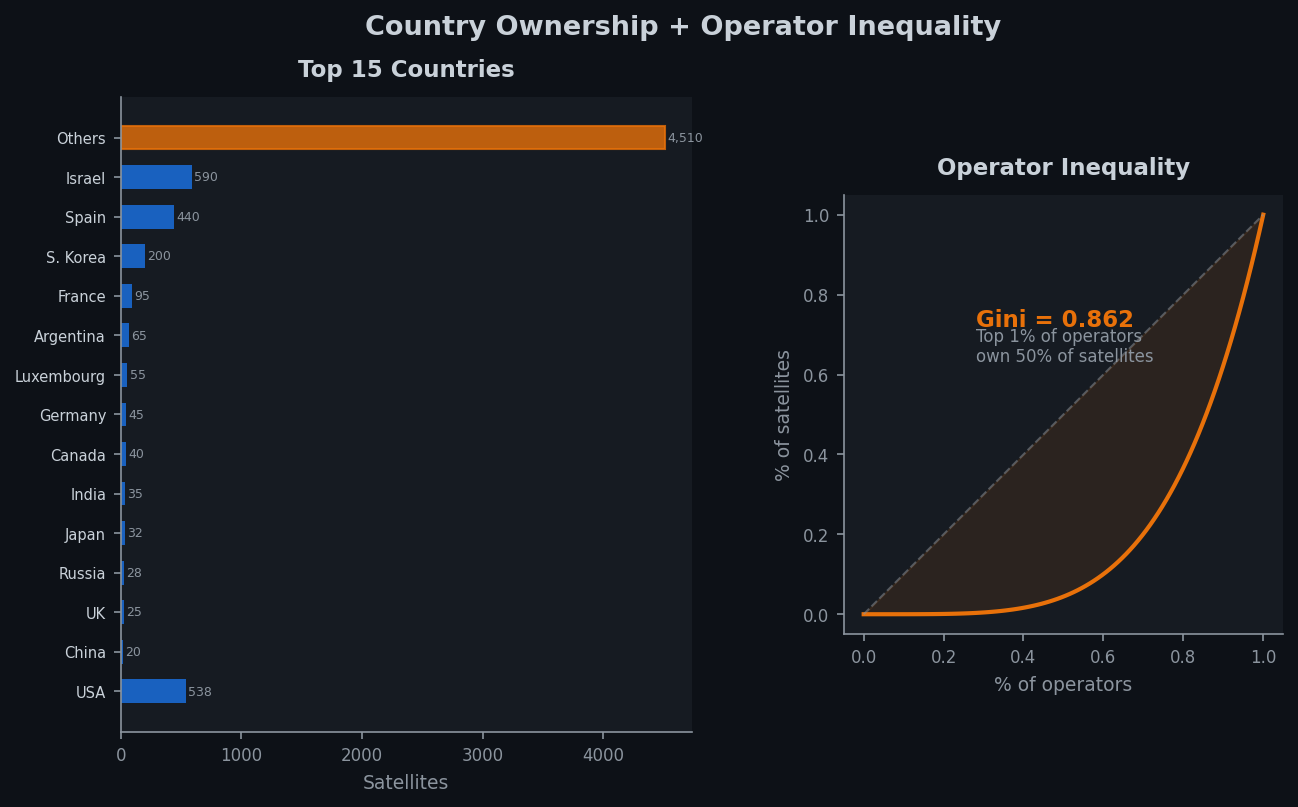
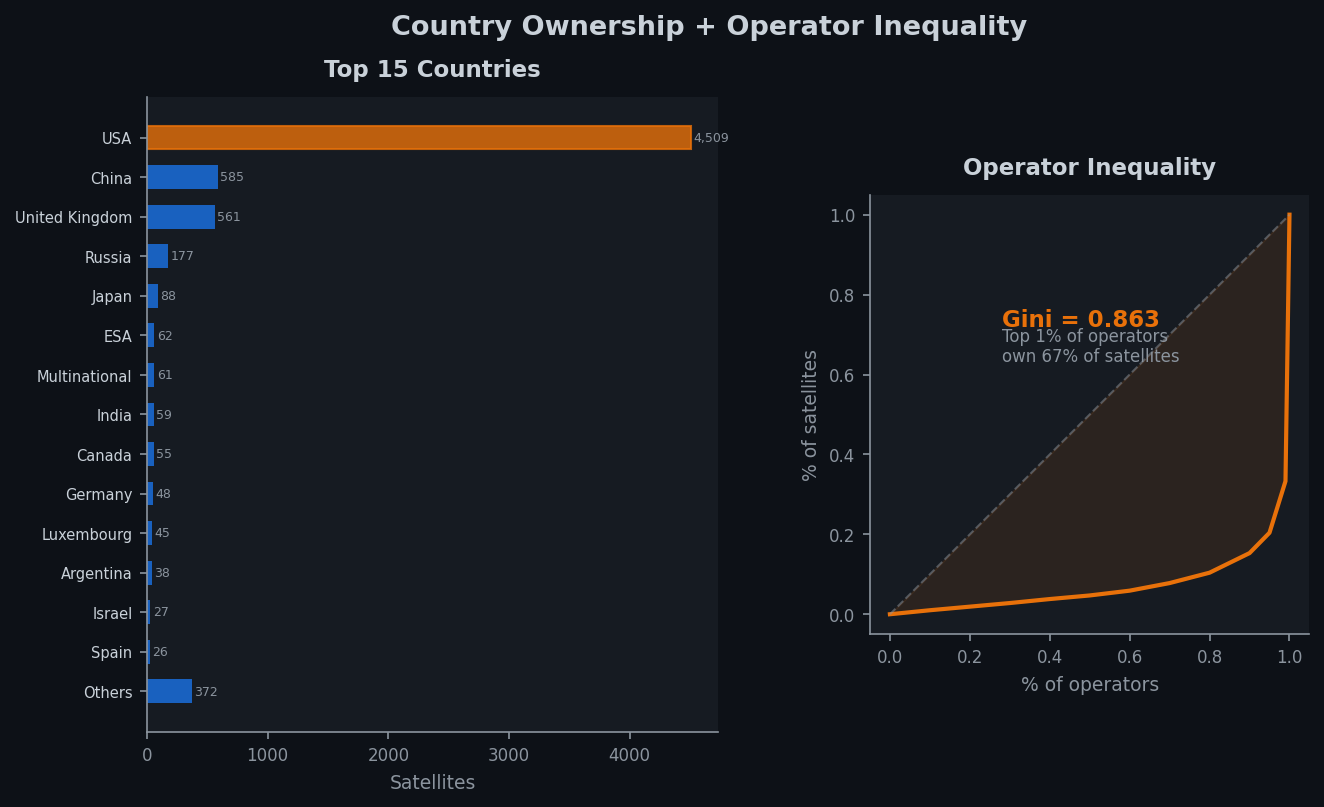
fix(wireframes): read country/Lorenz/Gini values from satellites.json

diff --git a/milestones/milestone2/wireframes.py b/milestones/milestone2/wireframes.py
@@ -79,12 +79,13 @@ ax_text.text(0.1, 0.95, "SCROLL NARRATIVE", color=MUTED, fontsize=7,
 ax_chart = fig.add_subplot(gs[1])
 setup_ax(ax_chart, "Cumulative Operational Satellites")
 
+peak = SAT_DATA["summary"]["total_satellites"]
 x = np.arange(1974, 2023)
 y = np.concatenate([
     np.linspace(20, 200, 15),
     np.linspace(200, 800, 15),
     np.linspace(800, 1200, 9),
-    np.linspace(1200, 6700, 10),
+    np.linspace(1200, peak, 10),
 ])
 ax_chart.fill_between(x, y, color=ACCENT, alpha=0.2)
 ax_chart.plot(x, y, color=ACCENT, linewidth=2)
@@ -114,15 +115,16 @@ gs = fig.add_gridspec(1, 2, width_ratios=[1.3, 1], wspace=0.3)
 ax1 = fig.add_subplot(gs[0])
 setup_ax(ax1, "Top 15 Countries")
 
-countries = ["USA", "China", "UK", "Russia", "Japan", "India", "Canada",
-             "Germany", "Luxembourg", "Argentina", "France", "S. Korea",
-             "Spain", "Israel", "Others"]
-counts = [4510, 590, 440, 200, 95, 65, 55, 45, 40, 35, 32, 28, 25, 20, 538]
+# Top 14 countries from the data + an "Others" bucket for everything else.
+top14 = SAT_DATA["top_countries"][:14]
+countries = [c["country"] for c in top14] + ["Others"]
+others_count = SAT_DATA["summary"]["total_satellites"] - sum(c["count"] for c in top14)
+counts = [c["count"] for c in top14] + [others_count]
 
 bars = ax1.barh(range(len(countries)), counts, color=ACCENT, alpha=0.8, height=0.6)
 bars[0].set_color(ACCENT2)
 ax1.set_yticks(range(len(countries)))
-ax1.set_yticklabels(countries[::-1], color=TEXT, fontsize=7)
+ax1.set_yticklabels(countries, color=TEXT, fontsize=7)
 ax1.invert_yaxis()
 ax1.set_xlabel("Satellites", color=MUTED, fontsize=9)
 
@@ -134,8 +136,10 @@ for bar, val in zip(bars, counts):
 ax2 = fig.add_subplot(gs[1])
 setup_ax(ax2, "Operator Inequality")
 
-x_lorenz = np.linspace(0, 1, 100)
-y_lorenz = x_lorenz ** 4.5
+# Real Lorenz curve from the data instead of a synthetic power curve.
+lorenz = SAT_DATA["lorenz_curve"]
+x_lorenz = np.array([p["pct_operators"] / 100 for p in lorenz])
+y_lorenz = np.array([p["pct_satellites"] / 100 for p in lorenz])
 ax2.plot(x_lorenz, y_lorenz, color=ACCENT2, linewidth=2)
 ax2.plot([0, 1], [0, 1], color=MUTED, linestyle="--", linewidth=1, alpha=0.5)
 ax2.fill_between(x_lorenz, y_lorenz, x_lorenz, alpha=0.1, color=ACCENT2)
@@ -143,9 +147,11 @@ ax2.set_xlabel("% of operators", color=MUTED, fontsize=9)
 ax2.set_ylabel("% of satellites", color=MUTED, fontsize=9)
 ax2.set_aspect("equal")
 
-ax2.text(0.3, 0.7, "Gini = 0.862", color=ACCENT2, fontsize=11,
+gini = SAT_DATA["summary"]["gini_coefficient"]
+top1_share = 100 - next(p["pct_satellites"] for p in lorenz if p["pct_operators"] == 99)
+ax2.text(0.3, 0.7, f"Gini = {gini}", color=ACCENT2, fontsize=11,
          fontweight="bold", transform=ax2.transAxes)
-ax2.text(0.3, 0.62, "Top 1% of operators\nown 50% of satellites",
+ax2.text(0.3, 0.62, f"Top 1% of operators\nown {top1_share:.0f}% of satellites",
          color=MUTED, fontsize=8, transform=ax2.transAxes)
 
 fig.suptitle("Country Ownership + Operator Inequality", color=TEXT,
